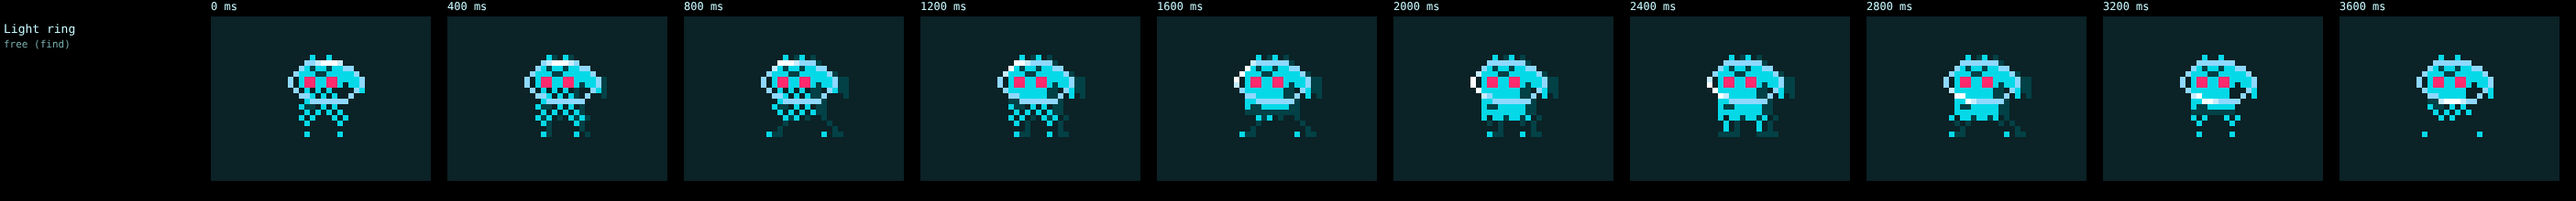
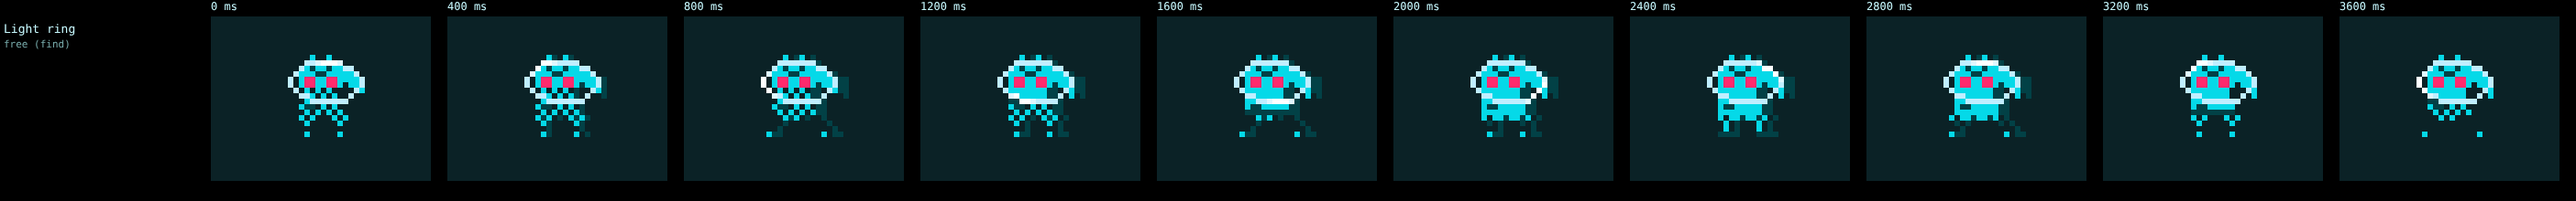
Light ring: brighter, and the glow travels at the flash rule's limit
Claude-Session: https://claude.ai/code/session_01Cs8Tn62A5tSs3mb1RKkHnQ

diff --git a/prototype/netling2/accessory-ideas.js b/prototype/netling2/accessory-ideas.js
@@ -195,19 +195,20 @@ export const IDEA_WEARABLES = [
     exclusive: true,
     // Recolorable, so placeWorn's blend check never swaps the cells over the body to another colour: the ring stays one tone all round.
     colors: [
-      ['ring', '#8fd8ff'],
+      ['ring', '#c0eeff'],
       ['glow', '#ffffff'],
     ],
     draw: (px, a, frame, time = 0, colors) => {
       // An unbroken oval round the head in one pale colour, with a glow (three bright cells and a softer cell either side) sliding round it
-      // counterclockwise (maintainer, 2026-10-12), a cell every 250 ms: a lap of 6 to 9 s. Redrawn from the maintainer's memory of
+      // counterclockwise (maintainer, 2026-10-12), two cells every 200 ms (the fastest the flash rule allows: each cell still holds a
+      // colour for 200 ms; maintainer asked for a brighter ring and a faster pulse): a lap of about 2.5 to 4 s. Redrawn from the maintainer's memory of
       // the 2026-10-07 version for Blank (a continuous oval glow with a pulsing motion), which was never committed; the first redraw
       // (blue dashes, a dash every 400 ms) read as broken and shaded. Kept findable whole, motion included, as the doc says.
-      const [ring, glow] = colors ?? ['#8fd8ff', '#ffffff'];
+      const [ring, glow] = colors ?? ['#c0eeff', '#ffffff'];
       const soft = mix(ring, glow);
       const cells = ringCells(a);
       const n = cells.length;
-      const head = (n - (step(time, 250) % n)) % n; // the cell list runs clockwise
+      const head = (n - ((step(time, 200) * 2) % n)) % n; // the cell list runs clockwise
       cells.forEach(([x, y], i) => {
         const d = Math.min((i - head + n) % n, (head - i + n) % n);
         px(x, y, d <= 1 ? glow : d === 2 ? soft : ring);

diff --git a/docs/NETLING_2_ACCESSORY_IDEAS.md b/docs/NETLING_2_ACCESSORY_IDEAS.md
@@ -204,7 +204,7 @@ Every table above has a **Paid?** column. There is no monetization in 1.0 or in 
 
 First drafts of every wearable (26), prop (10) and crest (5) above, in `prototype/netling2/accessory-ideas.js`. Shells, tints, effects, sounds, music and labels are not drawn. Wearables use 1.0's `draw(px, anchors, frame, time)`, props `draw(px, frame, time, extra)` with a size, crests 9x9; `registerIdeas()` adds them to 1.0's tables at run time (prototype only, `src/` untouched, `source: 'earned'` so they never enter drops, shops or visitor gifts), so the real `placeWorn` and `drawProp` place them through the 2.0 renderer.
 
-- **The Laughing Man ring, as the Light ring** (maintainer, 2026-10-12: shown under a different name; id still `laughingring`, nothing reserved). The 2026-10-07 drawing for Blank was never committed. A first redraw from the description (blue dashes, one white dash travelling) was rejected as broken and shaded; it is now drawn from the maintainer's memory of the original: **an unbroken pale oval** (`#8fd8ff`, one cell wide, every cell touching the next) from two cells outside the head's sides and two rows over the head top to two rows under the mouth, clear of the outline so it reads as a glow round the head, with **a glow sliding round it counterclockwise** (three white cells and a softer cell either side, a cell every 250 ms: a lap of about 6 to 10 s). Recolorable (ring and glow), so the blend check never splits it into two tones over the body. **It is exclusive** (maintainer): worn, it hides every other face item and any worn item with a pixel on the ring or inside it (row by row), which in practice is every head item; float items over the head and body items below the mouth stay. This lives in the prototype renderer (`render.js` `exclusiveWorn`, driven by `exclusive: true` on the item; 1.0's lists pass through unchanged); a 2.0 wardrobe would need to grey out what it hides. Before this it had only been seen on the Wetware hidden line; the review page shows it on six forms including Blank (`wetwareElderHidden`), and `#sec=ring` shows an outfit with and without it. GIF: `style-ideas-light-ring.gif` (10 s, all three rows of `#sec=ring`).
+- **The Laughing Man ring, as the Light ring** (maintainer, 2026-10-12: shown under a different name; id still `laughingring`, nothing reserved). The 2026-10-07 drawing for Blank was never committed. A first redraw from the description (blue dashes, one white dash travelling) was rejected as broken and shaded; it is now drawn from the maintainer's memory of the original: **an unbroken pale oval** (`#c0eeff`, brightened from `#8fd8ff` at the maintainer's ask, one cell wide, every cell touching the next) from two cells outside the head's sides and two rows over the head top to two rows under the mouth, clear of the outline so it reads as a glow round the head, with **a glow sliding round it counterclockwise** (three white cells and a softer cell either side, two cells every 200 ms: a lap of about 2.5 to 4 s; sped up at the maintainer's ask to the fastest the flash rule allows, since each cell must hold a colour for `FLASH_TOGGLE_MS`). Recolorable (ring and glow), so the blend check never splits it into two tones over the body. **It is exclusive** (maintainer): worn, it hides every other face item and any worn item with a pixel on the ring or inside it (row by row), which in practice is every head item; float items over the head and body items below the mouth stay. This lives in the prototype renderer (`render.js` `exclusiveWorn`, driven by `exclusive: true` on the item; 1.0's lists pass through unchanged); a 2.0 wardrobe would need to grey out what it hides. Before this it had only been seen on the Wetware hidden line; the review page shows it on six forms including Blank (`wetwareElderHidden`), and `#sec=ring` shows an outfit with and without it. GIF: `style-ideas-light-ring.gif` (6 s, all three rows of `#sec=ring`).
 - **Free and paid versions.** A **split** idea draws as its animated (paid) version under its id and as a free version (id + `.free`) that is exactly one frame of the animation, the reduced-motion picture. A **paid** idea has no free version in the tables above, so its free comparison is a plainer still drawing (the Thought bubble empty; the Desk terminal without stand or cursor; the Noodle cup without steam or band; the Lava lamp with one resting blob; the arcade cabinet with a dark screen). The Heat sink is drawn plain, with its Overclock glow as a separate review-only entry.
 - **Review page:** `prototype/netling2/accessory-ideas-preview.html` (`#sec=wear`, `motion`, `props`, `crests`; `scale=n`, `t=ms` to freeze), served by `npm run serve`. Screenshots: `docs/netling2-prototypes/shots/style-ideas-wearables.png`, `style-ideas-light-ring-blank.png`, `style-ideas-light-ring.gif`, `style-ideas-wearables-motion.png`, `style-ideas-props.png`, `style-ideas-crests.png`.
 - **Tests:** `accessory-ideas.test.js` (10, in `npm run proto:test`): the Light ring is an unbroken loop on every form and its exclusion holds on every form; every idea in these tables has art with the table's Paid? value; a split's free version is a frame of its animation and a paid one's is not; nothing leaves the top of the 2.0 screen on any of the 76 forms at the highest each frame stands in 1.0's idles; every cell holds each colour at least `FLASH_TOGGLE_MS`; the still ideas do not move; props stay inside their size; crests are 9x9.
